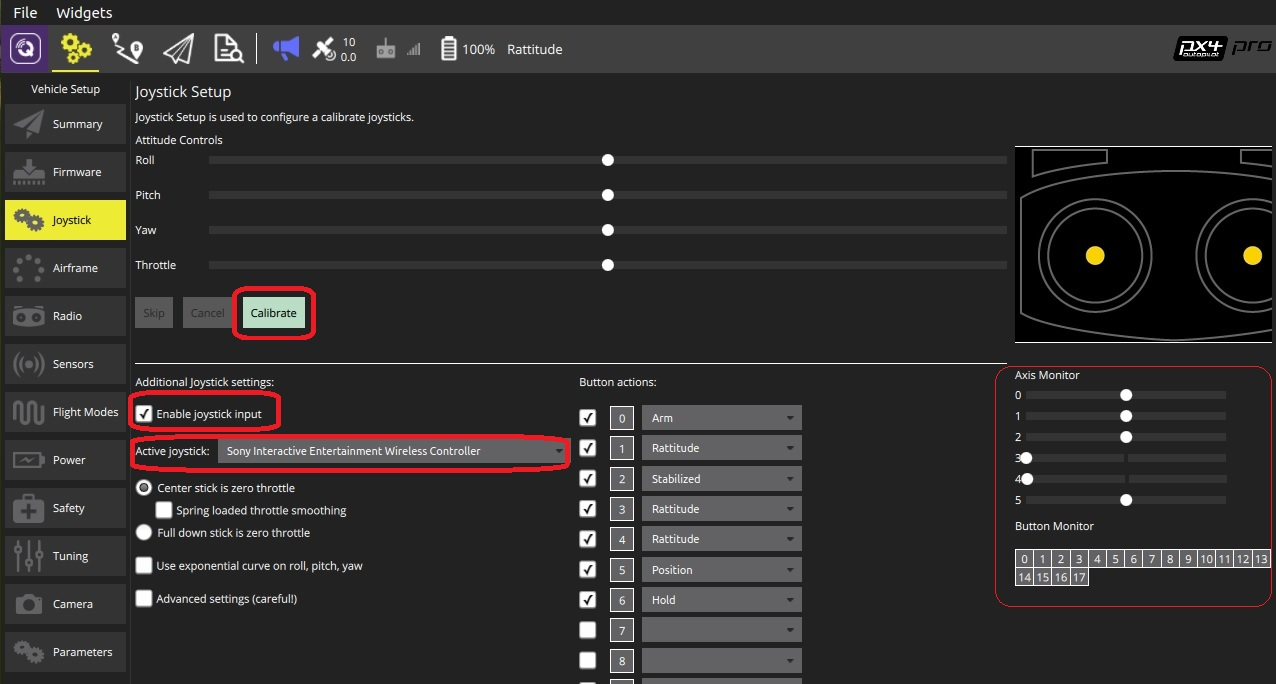
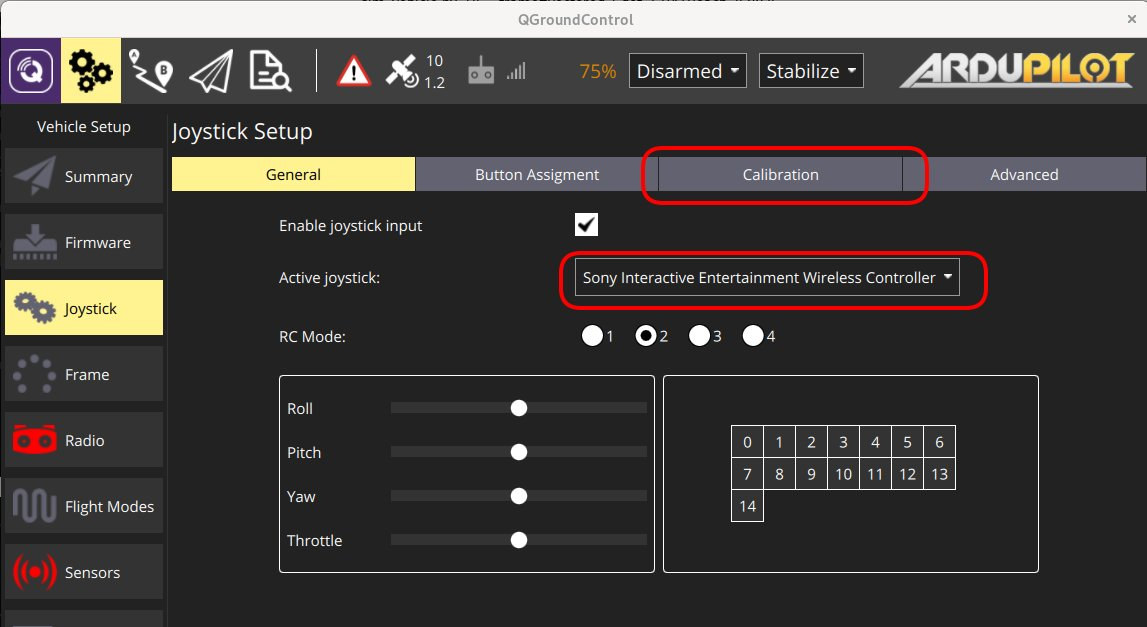
Joystick: Update to match joystick page in QGC 4.0

diff --git a/en/SetupView/Joystick.md b/en/SetupView/Joystick.md
@@ -30,11 +30,16 @@ To configure a joystick:
 
    ![Joystick setup - PlayStation](../../assets/setup/joystick_sony_playstation.jpg)
 1. Make sure your joystick is selected in the **Active joystick** dropdown.
-1. Press the **Calibrate** button and then follow the on-screen instructions to calibrate/move the sticks.
-1. Test the buttons and sticks work as intended by pressing them, and viewing the result in the Axis/Button monitor.
+1. Go to the **Calibrate** Tab, press the **Start** button and then follow the on-screen instructions to calibrate/move the sticks. The joystick is enabled as the last step of the calibration process.
+   ![Joystick setup - Calibration](../../assets/setup/joystick_calibration.jpg)
+1. Test the buttons and sticks work as intended by pressing them, and viewing the result in the Axis/Button monitor in the **General** tab.
 1. Select the flight modes/vehicle functions activated by each joystick button.
-1. Check the **Enable joystick input** checkbox to begin sending joystick commands to the vehicle.
+   ![Joystick setup - Buttons](../../assets/setup/joystick_buttons.jpg)
 
+
+## Advanced Options
+
+Some additional Options are available at the **Advanced** tab. These options may be useful for specific, unsual setups, for increasing sensibility, and for handling noisy joysticks.
 
 ### Throttle Options
    ![Joystick setup - Throttle Modes](../../assets/setup/joystick_throttle_modes.jpg)
@@ -65,6 +70,8 @@ They can cause unpredicted results if used incorrectly.
 
 The following settings are available:
 
+- **Enable Gimbal Control**: Enabled two additional channels for controlling a gimbal.
+
 - **Joystick Mode**: Changes what the joystick actually controls, and the MAVLink messages sent to the vehicle.
     - **Normal**: User controls as if using a regular RC radio, MAVLink [MANUAL_CONTROL](https://mavlink.io/en/messages/common.html#MANUAL_CONTROL) messages are used.
     - **Attitude**: User controls the vehicle attitude, MAVLink [SET_ATTITUDE_TARGET](https://mavlink.io/en/messages/common.html#SET_ATTITUDE_TARGET) messages are used.
@@ -72,7 +79,9 @@ The following settings are available:
     - **Force**: User controls the forces applied to the vehicle, MAVLink [SET_POSITION_TARGET_LOCAL_NED](https://mavlink.io/en/messages/common.html#SET_POSITION_TARGET_LOCAL_NED) messages with bitmask for **force** only are used.
     - **Velocity**: User controls the forces applied to the vehicle, MAVLink [SET_POSITION_TARGET_LOCAL_NED](https://mavlink.io/en/messages/common.html#SET_POSITION_TARGET_LOCAL_NED) messages with bitmask for **velocity** only are used.
 
-- **Message Frequency**: When the joystick is idle (inputs are not changing), the joystick commands are sent to the vehicle at 5Hz. When the joystick is in use (input values are changing), the joystick commands are sent to the vehicle at the (higher) frequency configured by this setting. The default is 25Hz.
+- **Axis Frequency**: When the joystick is idle (inputs are not changing), the joystick commands are sent to the vehicle at 5Hz. When the joystick is in use (input values are changing), the joystick commands are sent to the vehicle at the (higher) frequency configured by this setting. The default is 25Hz.
+
+- **Button Frequency**: Controls the frequency at which repeated button actions are sent.
 
 - **Enable Circle Correction**: RC controllers sticks describe a square, while joysticks usually describe a circle.
   When this option is enabled a square is inscribed inside the joystick movement area to make it more like an RC controller (so it is possible to reach all four corners). The cost is decreased resolution, as the effective stick travel is reduced.
